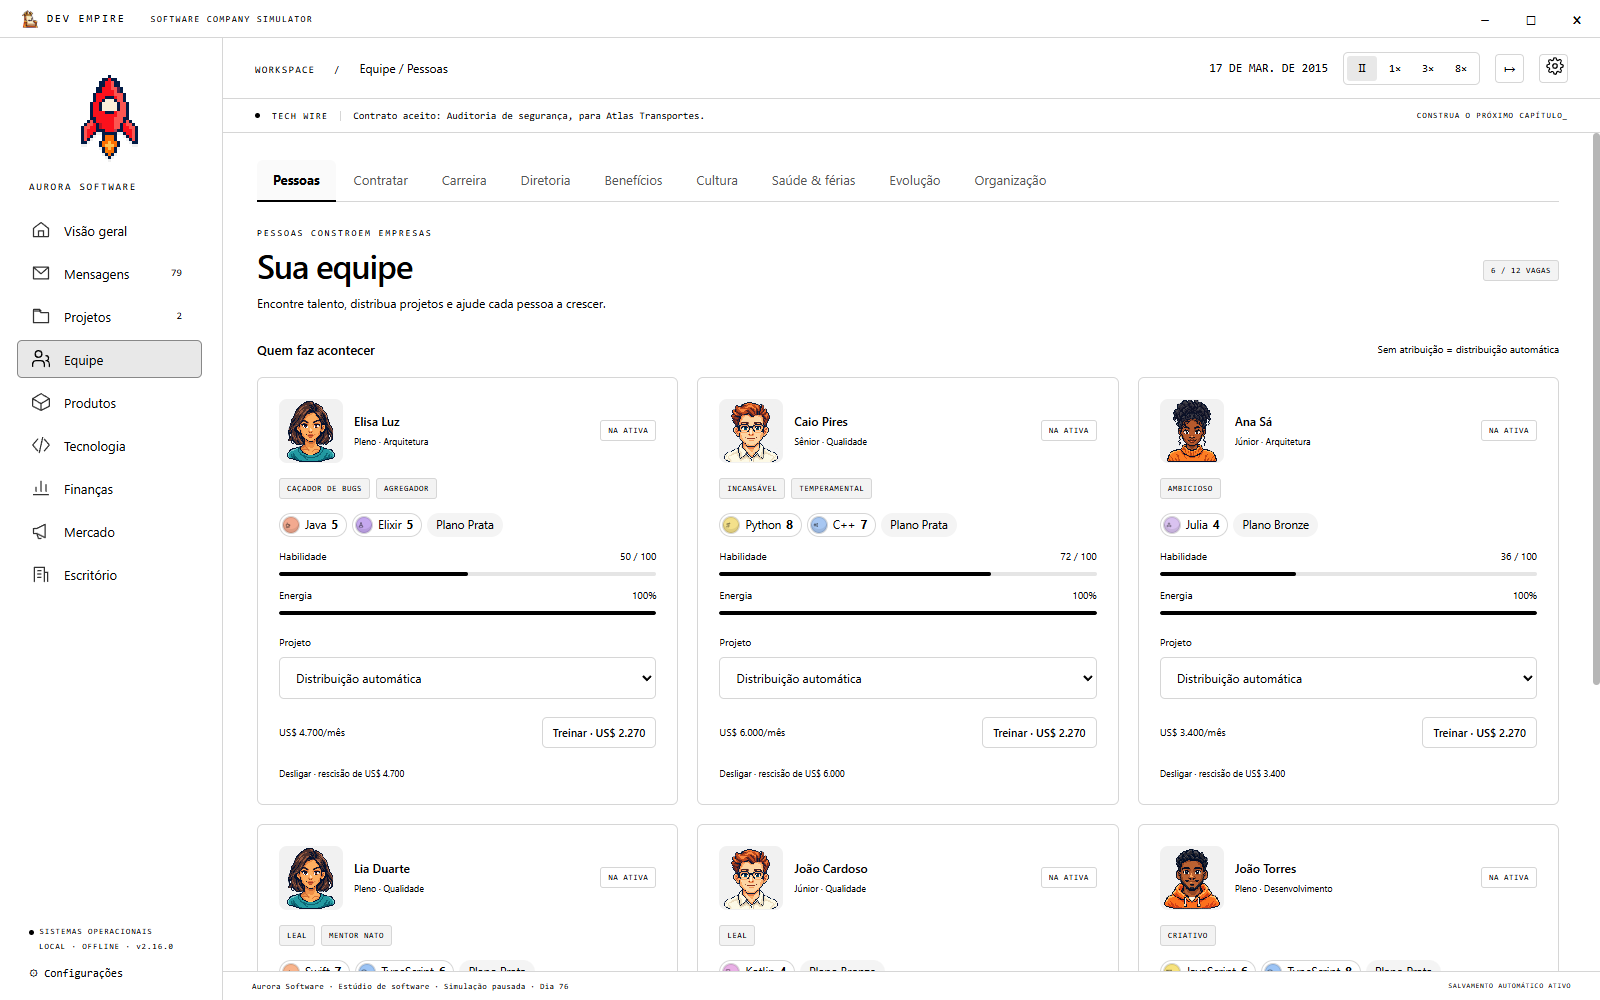
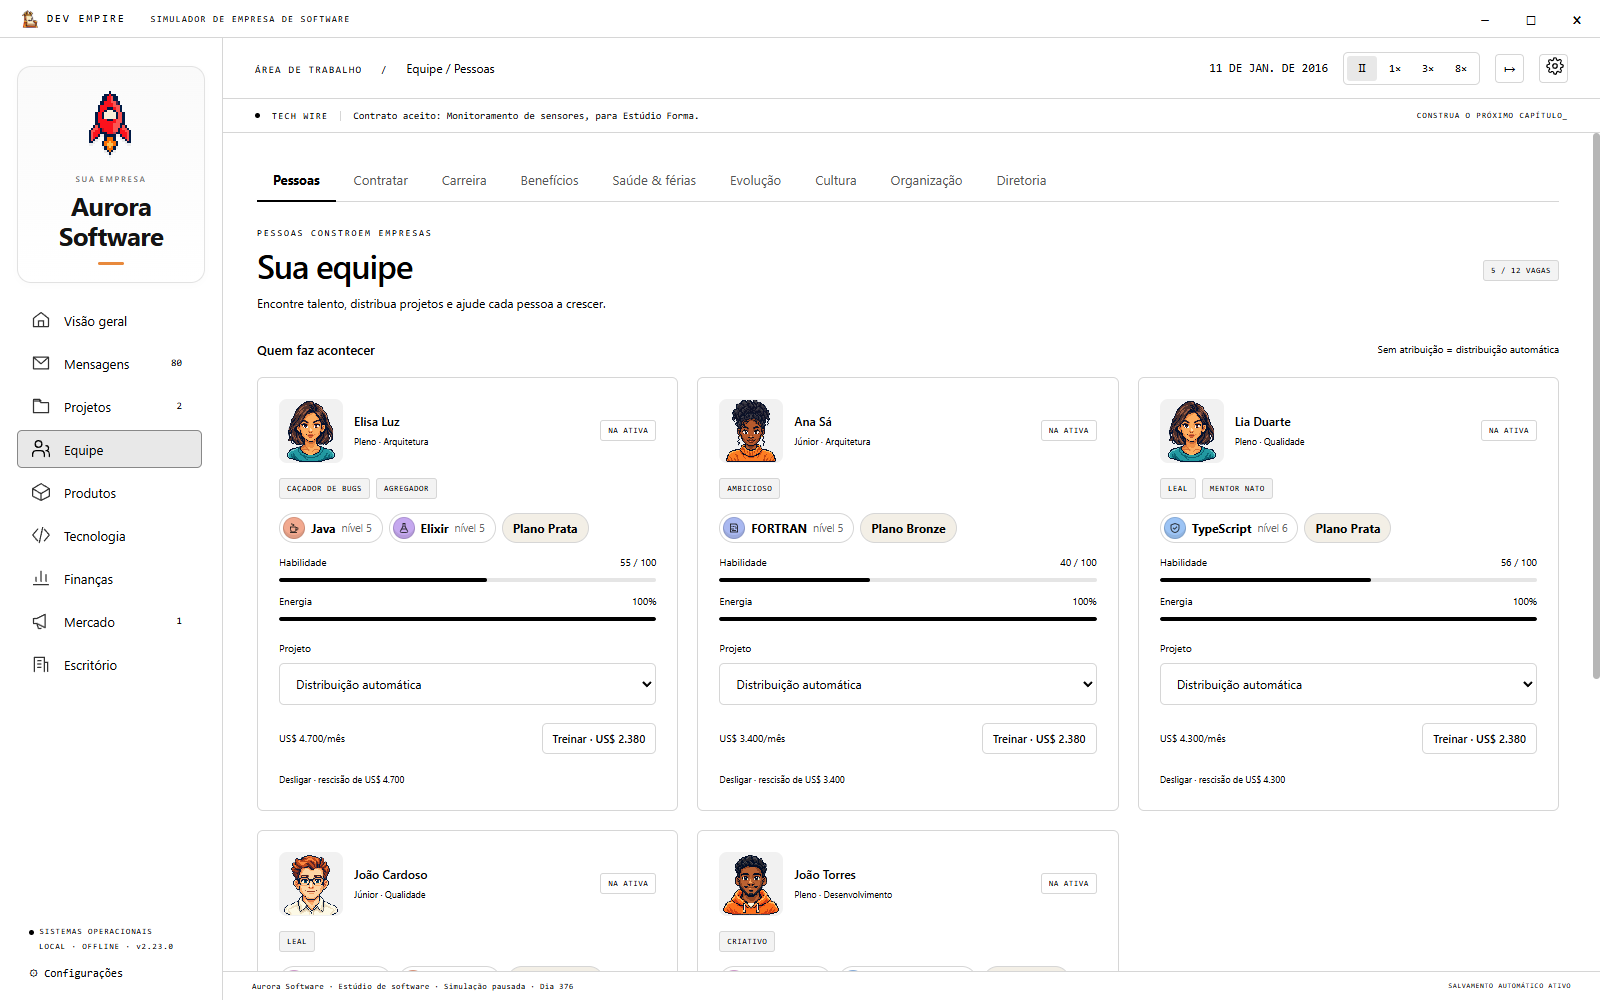
Atualiza página e capturas da BETA 2.23.0

diff --git a/README.md b/README.md
@@ -7,15 +7,15 @@
 <p align="center"><strong>Uma garagem, um computador e uma ideia.<br>O próximo império do software começa com você.</strong></p>
 
 <p align="center">
-  <a href="https://github.com/ithalov/dev-empire/releases/tag/v2.16.0"><img src="https://img.shields.io/badge/vers%C3%A3o-2.16.0-blue?style=flat-square" alt="Versão 2.16.0"></a>
+  <a href="https://github.com/ithalov/dev-empire/releases/tag/v2.23.0"><img src="https://img.shields.io/badge/vers%C3%A3o-2.23.0-blue?style=flat-square" alt="Versão 2.23.0"></a>
   <img src="https://img.shields.io/badge/status-BETA-orange?style=flat-square" alt="Em BETA">
   <img src="https://img.shields.io/badge/plataforma-Windows_x64-0078D4?style=flat-square" alt="Windows x64">
-  <img src="https://img.shields.io/badge/idioma-Portugu%C3%AAs-2E7D32?style=flat-square" alt="Português">
+  <img src="https://img.shields.io/badge/idiomas-7-2E7D32?style=flat-square" alt="7 idiomas disponíveis">
   <img src="https://img.shields.io/badge/modo-single--player_%C2%B7_offline-6655AA?style=flat-square" alt="Single-player e offline">
 </p>
 
 <p align="center">
-  <a href="https://github.com/ithalov/dev-empire/releases/download/v2.16.0/Dev-Empire-2.16.0-Windows.exe"><img src="https://img.shields.io/badge/BAIXAR_BETA_2.16.0-WINDOWS_x64-F28C28?style=for-the-badge&logo=github&logoColor=white" alt="Baixar Dev Empire BETA 2.16.0 para Windows"></a>
+  <a href="https://github.com/ithalov/dev-empire/releases/download/v2.23.0/Dev-Empire-2.23.0-Windows.exe"><img src="https://img.shields.io/badge/BAIXAR_BETA_2.23.0-WINDOWS_x64-F28C28?style=for-the-badge&logo=github&logoColor=white" alt="Baixar Dev Empire BETA 2.23.0 para Windows"></a>
 </p>
 
 <p align="center">
@@ -41,72 +41,97 @@ Negocie contratos, escolha tecnologias e acompanhe cada projeto até a entrega. 
 
 Jogue no seu ritmo: pause para planejar ou acelere o tempo para acompanhar os resultados das suas decisões.
 
-## Novidades da BETA 2.16.0
+## Novidades da BETA 2.23.0
 
-- **Sua equipe ganha identidade:** retratos de funcionários e diretores, carreira, promoções e benefícios.
-- **Produtos com personalidade:** novos ícones por categoria, modelos de monetização e planejamento de versões.
-- **Plataformas:** transforme um sistema operacional ou loja em um ecossistema com aplicativos de outros desenvolvedores.
-- **Aquisições:** converse com CEOs, faça auditorias e decida como expandir seu grupo de empresas.
-- **Mods locais:** importe conteúdo da comunidade, confira as mudanças antes de aplicar e gerencie seus pacotes.
-- **Correções e melhorias visuais:** carregamento de saves antigos, botão de treinamento e novas artes originais.
+- **Concorrência em movimento:** os rivais lançam aplicativos a cada dois meses, atualizam produtos, fazem campanhas, contratam e fecham parcerias. Novas empresas entram no mercado ao longo da partida.
+- **Um mercado que muda:** o público cresce a cada ano e **85 acontecimentos** movimentam empresas e funcionários, com efeitos na procura, no caixa e na equipe.
+- **Jornal com novidades a cada três dias:** boletins das empresas, cobertura de lançamentos e filtros para acompanhar quem você quiser.
+- **Governo e economia:** 18 medidas temporárias de incentivo ou restrição, seis novas exigências fictícias de adaptação e tributos sobre receitas de produtos, com detalhamento em Finanças.
+- **Reconhecimento pelo seu trabalho:** nove novas premiações anuais, incluindo Programador do Ano, Mentor do Ano e Talento Revelação.
+- **Mais formas de construir seu império:** loja virtual, promoções, decoração do escritório, evolução da equipe, aquisições e novas versões de produtos.
 
 ## Imagens do jogo
 
-Capturas reais da **BETA 2.16.0 para Windows**, usando uma empresa de demonstração. Clique nas imagens para ampliar.
+Capturas reais do aplicativo Windows **BETA 2.23.0**, com uma empresa de demonstração. Clique para ampliar.
 
 ### Sua empresa em um só lugar
 
-[![Visão geral da empresa, com caixa, equipe, projetos e escritório](media/screenshots/02-visao-geral.png)](media/screenshots/02-visao-geral.png)
+[![Visão geral de Aurora Software na BETA 2.23.0](media/screenshots/02-visao-geral.png)](media/screenshots/02-visao-geral.png)
 
 <table>
   <tr>
-    <td width="50%" align="center"><strong>Desenvolvimento de projetos</strong></td>
-    <td width="50%" align="center"><strong>Equipe e contratação</strong></td>
+    <td width="50%" align="center"><strong>Jornal e notícias</strong></td>
+    <td width="50%" align="center"><strong>Concorrência e mercado</strong></td>
   </tr>
   <tr>
-    <td><a href="media/screenshots/03-projeto.png"><img src="media/screenshots/03-projeto.png" alt="Desenvolvimento de projetos em Dev Empire BETA 2.16.0" width="100%"></a></td>
-    <td><a href="media/screenshots/04-equipe.png"><img src="media/screenshots/04-equipe.png" alt="Equipe e contratação em Dev Empire BETA 2.16.0" width="100%"></a></td>
+    <td><a href="media/screenshots/11-noticias.png"><img src="media/screenshots/11-noticias.png" alt="Jornal e notícias — Dev Empire BETA 2.23.0" width="100%"></a></td>
+    <td><a href="media/screenshots/10-concorrencia.png"><img src="media/screenshots/10-concorrencia.png" alt="Concorrência e mercado — Dev Empire BETA 2.23.0" width="100%"></a></td>
+  </tr>
+  <tr>
+    <td width="50%" align="center"><strong>Governo e regulação</strong></td>
+    <td width="50%" align="center"><strong>Premiações anuais</strong></td>
+  </tr>
+  <tr>
+    <td><a href="media/screenshots/12-governo.png"><img src="media/screenshots/12-governo.png" alt="Governo e regulação — Dev Empire BETA 2.23.0" width="100%"></a></td>
+    <td><a href="media/screenshots/13-premios.png"><img src="media/screenshots/13-premios.png" alt="Premiações anuais — Dev Empire BETA 2.23.0" width="100%"></a></td>
   </tr>
   <tr>
     <td width="50%" align="center"><strong>Produtos próprios</strong></td>
+    <td width="50%" align="center"><strong>Loja virtual</strong></td>
+  </tr>
+  <tr>
+    <td><a href="media/screenshots/06-produtos.png"><img src="media/screenshots/06-produtos.png" alt="Produtos próprios — Dev Empire BETA 2.23.0" width="100%"></a></td>
+    <td><a href="media/screenshots/08-plataformas.png"><img src="media/screenshots/08-plataformas.png" alt="Loja virtual — Dev Empire BETA 2.23.0" width="100%"></a></td>
+  </tr>
+  <tr>
+    <td width="50%" align="center"><strong>Equipe e talentos</strong></td>
+    <td width="50%" align="center"><strong>Desenvolvimento de projetos</strong></td>
+  </tr>
+  <tr>
+    <td><a href="media/screenshots/04-equipe.png"><img src="media/screenshots/04-equipe.png" alt="Equipe e talentos — Dev Empire BETA 2.23.0" width="100%"></a></td>
+    <td><a href="media/screenshots/03-projeto.png"><img src="media/screenshots/03-projeto.png" alt="Desenvolvimento de projetos — Dev Empire BETA 2.23.0" width="100%"></a></td>
+  </tr>
+  <tr>
+    <td width="50%" align="center"><strong>Ambientes do escritório</strong></td>
     <td width="50%" align="center"><strong>Diretoria da empresa</strong></td>
   </tr>
   <tr>
-    <td><a href="media/screenshots/06-produtos.png"><img src="media/screenshots/06-produtos.png" alt="Produtos próprios em Dev Empire BETA 2.16.0" width="100%"></a></td>
-    <td><a href="media/screenshots/07-diretoria.png"><img src="media/screenshots/07-diretoria.png" alt="Diretoria da empresa em Dev Empire BETA 2.16.0" width="100%"></a></td>
+    <td><a href="media/screenshots/14-ambientes.png"><img src="media/screenshots/14-ambientes.png" alt="Ambientes do escritório — Dev Empire BETA 2.23.0" width="100%"></a></td>
+    <td><a href="media/screenshots/07-diretoria.png"><img src="media/screenshots/07-diretoria.png" alt="Diretoria da empresa — Dev Empire BETA 2.23.0" width="100%"></a></td>
   </tr>
   <tr>
-    <td width="50%" align="center"><strong>Plataformas e aplicativos</strong></td>
     <td width="50%" align="center"><strong>Negociação de aquisições</strong></td>
-  </tr>
-  <tr>
-    <td><a href="media/screenshots/08-plataformas.png"><img src="media/screenshots/08-plataformas.png" alt="Plataformas e aplicativos em Dev Empire BETA 2.16.0" width="100%"></a></td>
-    <td><a href="media/screenshots/09-aquisicoes.png"><img src="media/screenshots/09-aquisicoes.png" alt="Negociação de aquisições em Dev Empire BETA 2.16.0" width="100%"></a></td>
-  </tr>
-  <tr>
     <td width="50%" align="center"><strong>Pesquisa e tecnologias</strong></td>
-    <td width="50%" align="center"><strong>Menu principal</strong></td>
   </tr>
   <tr>
-    <td><a href="media/screenshots/05-tecnologias.png"><img src="media/screenshots/05-tecnologias.png" alt="Pesquisa e tecnologias em Dev Empire BETA 2.16.0" width="100%"></a></td>
-    <td><a href="media/screenshots/01-menu.png"><img src="media/screenshots/01-menu.png" alt="Menu principal em Dev Empire BETA 2.16.0" width="100%"></a></td>
+    <td><a href="media/screenshots/09-aquisicoes.png"><img src="media/screenshots/09-aquisicoes.png" alt="Negociação de aquisições — Dev Empire BETA 2.23.0" width="100%"></a></td>
+    <td><a href="media/screenshots/05-tecnologias.png"><img src="media/screenshots/05-tecnologias.png" alt="Pesquisa e tecnologias — Dev Empire BETA 2.23.0" width="100%"></a></td>
   </tr>
 </table>
 
+<details>
+<summary><strong>Ver o menu principal</strong></summary>
+
+[![Menu principal de Dev Empire BETA 2.23.0](media/screenshots/01-menu.png)](media/screenshots/01-menu.png)
+
+</details>
+
 ## Como jogar
 
-1. **[Baixe o jogo para Windows](https://github.com/ithalov/dev-empire/releases/download/v2.16.0/Dev-Empire-2.16.0-Windows.exe).**
-2. Abra **Dev-Empire-2.16.0-Windows.exe**. A versão é portátil e não precisa de instalação.
+1. **[Baixe o jogo para Windows](https://github.com/ithalov/dev-empire/releases/download/v2.23.0/Dev-Empire-2.23.0-Windows.exe).**
+2. Abra **Dev-Empire-2.23.0-Windows.exe**. A versão é portátil e não precisa de instalação.
 3. Crie sua empresa e siga o guia do fundador para começar.
 
 | Informação | Versão atual |
 |---|---|
 | Plataforma | Windows x64 |
-| Idioma | Português |
+| Idiomas | Português, inglês, espanhol, francês, alemão, chinês simplificado e japonês |
 | Experiência | Single-player e offline |
 | Download | Aproximadamente 126 MB |
 | Progresso | Salvamento automático local e exportação/importação de saves |
 | Fase | **BETA — em desenvolvimento** |
+
+As traduções adicionais continuam em revisão durante o BETA.
 
 **Já está jogando uma versão anterior?** Exporte seu save nas configurações antes de atualizar e feche o jogo antigo.
 
@@ -137,4 +162,4 @@ Ao relatar um problema, informe a versão do jogo, o que aconteceu e os passos p
 
 ---
 
-<p align="center"><strong>Sua próxima grande ideia começa com o primeiro projeto.</strong><br><a href="https://github.com/ithalov/dev-empire/releases/download/v2.16.0/Dev-Empire-2.16.0-Windows.exe">Baixe a BETA e funde sua empresa.</a></p>
+<p align="center"><strong>Sua próxima grande ideia começa com o primeiro projeto.</strong><br><a href="https://github.com/ithalov/dev-empire/releases/download/v2.23.0/Dev-Empire-2.23.0-Windows.exe">Baixe a BETA e funde sua empresa.</a></p>
